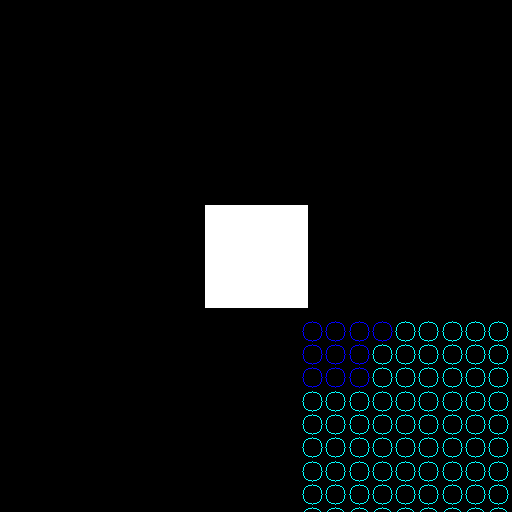
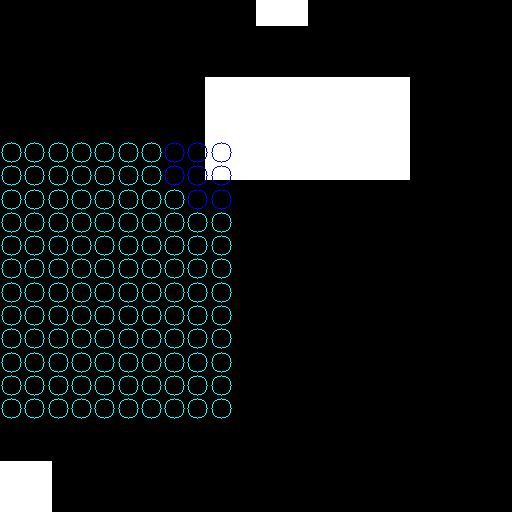
fix visualization

diff --git a/glimpse.py b/glimpse.py
@@ -50,8 +50,16 @@ class GlimpseModel(nn.Module):
         if isinstance(image, torch.Tensor):
             image = image.detach().cpu().numpy()
             
-        k = 10
+        k = 20
         k_largest_indices = heapq.nlargest(k, range(len(sensor_readings)), key=lambda x: sensor_readings[x])
+        real_k_largest_indices = []
+        for ind in k_largest_indices:
+            if sensor_readings[ind] > 0.001:
+                real_k_largest_indices.append(ind)
+                
+        k_largest_indices = real_k_largest_indices
+                
+            
         print("k_largest_indices", k_largest_indices)
         
         image = cv2.cvtColor(image, cv2.COLOR_GRAY2BGR)
@@ -66,9 +74,9 @@ class GlimpseModel(nn.Module):
         H, W = 512, 512
         image = cv2.resize(image, (W, H), interpolation=cv2.INTER_NEAREST)
         
-        shifted_mu = (sc - self.mu) * sz # (num_kernels, 2)
+        shifted_mu = (sc + self.mu) * sz # (num_kernels, 2)
         shifted_sigma = (self.sigma * sz).squeeze(0) # (num_kernels,)
-    
+            
         # Convert mu and sigma from normalized [-1, 1] to pixel coordinates
         pixel_mu = (shifted_mu + 1) * 0.5 * torch.tensor([W, H]).to(shifted_mu.device)  # Scale to image dimensions
         pixel_mu = pixel_mu.detach().cpu().numpy()  # Convert to numpy array
@@ -85,7 +93,7 @@ class GlimpseModel(nn.Module):
             if idx in k_largest_indices:
                 color = (255, 0, 0)
             cv2.circle(image, center, radius, color, thickness=1)
-            
+                        
             idx +=1
 
         cv2.imwrite(fname, image)
@@ -97,22 +105,22 @@ class GlimpseModel(nn.Module):
         device = imgs.device
         
         # Compute Kernel Center and Sigma (Eqn 2/3 from the paper)
-        mu = (s_c.unsqueeze(1) - self.mu)*s_z.unsqueeze(1) # (B, num_kernels, 2) 
+        mu = (s_c.unsqueeze(1) + self.mu)*s_z.unsqueeze(1) # (B, num_kernels, 2) 
         sigma = self.sigma * s_z # (B, num_kernels)        
         # Generate sampling grid
         x = torch.linspace(-1, 1, W, device=device)  # (W,)
         y = torch.linspace(-1, 1, H, device=device)  # (H,)    
-        grid_x, grid_y = torch.meshgrid(x, y, indexing="ij")
+        grid_y, grid_x = torch.meshgrid(x, y, indexing="ij")
         
         grid_x = grid_x.unsqueeze(0).unsqueeze(0)  # (1, 1, H, W)
-        grid_y = grid_y.unsqueeze(0).unsqueeze(0)  # (1, 1, H, W) bc all batches and all kernels
-        sigma = sigma.view(B, self.num_kernels, 1, 1)         
+        grid_y = grid_y.unsqueeze(0).unsqueeze(0)  # (1, 1, H, W)
+        sigma = sigma.view(B, self.num_kernels, 1, 1)   
         
         # Compute the gaussian kernel
-        kernels_x = torch.exp(-0.5 * ((grid_x - mu[..., 0].view(B, self.num_kernels, 1, 1)) ** 2) / sigma ** 2)
+        kernels_x = torch.exp(-0.5 * ((grid_x- mu[..., 0].view(B, self.num_kernels, 1, 1)) ** 2) / sigma ** 2)
         kernels_y = torch.exp(-0.5 * ((grid_y - mu[..., 1].view(B, self.num_kernels, 1, 1)) ** 2) / sigma ** 2)
-        kernels = kernels_x * kernels_y  # (B, num_kernels, H, W)
-                
+        kernels = kernels_x*kernels_y   # (B, num_kernels, H, W)
+
         # normalize
         kernels /= (kernels.sum(dim=(-2, -1), keepdim=True) + 1e-7)
         
@@ -135,14 +143,24 @@ def main():
     model = GlimpseModel(image_shape).to("cuda:0")
     
     U = torch.zeros((1, 100, 100), device="cuda:0")
-    U[:, 40:60, 40:60] = 1
+    # U[:, :, :] = U_old.to("cuda:0")
+    # U[:, 40:60, 40:60] = 1
+    
+    U[:, 90:100, 0:10] = 1
+    U[:, 15:35, 40:80] = 1
+    U[:, 0:5, 50:60] = 1
+    
     batch_size = len(U)
+    
     
     s_c = torch.rand((batch_size, 2), device="cuda:0") * 2 -1
     s_z = torch.ones((batch_size, 1), device="cuda:0")
-        
+    
+    # s_c[0, 0] = -0.5
+    # s_c[0, 1] = 0.5
+            
     sensor_reading = model(U, s_c, s_z)
-    print("This is the output", sensor_reading)
+    # print("This is the output", sensor_reading)
     print("Plotting now::")
     for i in range(batch_size):
         model.plot_image("test{}.png".format(i), U[i], s_c[i], s_z[i], sensor_reading[0])
